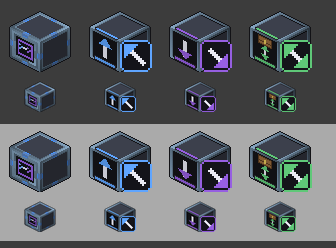
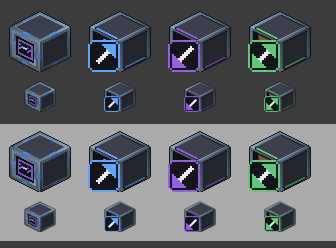
Put the bus badges in the lower left corner
The direction badges of #381 sat in the lower right corner of the bus
icons, where the game draws a stack's count, so the number covered them
in the inventory and the hotbar. They are drawn in the lower left
corner now, mirrored so the arrows keep their meaning; the file names
stay, so the texture mod keeps them over its AE2 cubes.

Refs #381

diff --git a/tools/gen_ae2_sprites.py b/tools/gen_ae2_sprites.py
@@ -1908,16 +1908,17 @@ BADGES = {"me-import-bus": (IMPORT_ACCENT, "in"), "me-export-bus": (EXPORT_ACCEN
 
 
 def bus_badge(accent, way):
-    """issue #381: a bus's direction as a badge in the lower right corner of its 64 px icon, alone (a layer of its own over
-    the block's icon, so the texture mod, which replaces the block's icon, keeps it): a dark rounded square with a
-    diagonal arrow in the bus's colour, into the block (import: towards its middle), out of it (export) or both ways
-    (storage bus). Drawn at 32 px, then doubled like the other HD icons."""
+    """issue #381: a bus's direction as a badge in the lower left corner of its 64 px icon (the game draws a stack's count
+    in the lower right one), alone (a layer of its own over the block's icon, so the texture mod, which replaces the
+    block's icon, keeps it): a dark rounded square with a diagonal arrow in the bus's colour, into the block (import:
+    towards its middle, up and right), out of it (export) or both ways (storage bus). Drawn at 32 px, then doubled like the
+    other HD icons."""
     img = Image.new("RGBA", (TILE, TILE))
     d = ImageDraw.Draw(img)
-    d.rounded_rectangle((16, 16, 31, 31), radius=3, fill=(20, 20, 26, 255), outline=accent + (255,))
-    d.line((20, 20, 27, 27), fill=(235, 235, 245, 255), width=2)            # the shaft, upper left to lower right
-    tip_in = [(18, 18), (24, 18), (18, 24)]                                     # head at the upper left: into the block
-    tip_out = [(29, 29), (23, 29), (29, 23)]                                    # head at the lower right: out of it
+    d.rounded_rectangle((0, 16, 15, 31), radius=3, fill=(20, 20, 26, 255), outline=accent + (255,))
+    d.line((11, 20, 4, 27), fill=(235, 235, 245, 255), width=2)             # the shaft, upper right to lower left
+    tip_in = [(13, 18), (7, 18), (13, 24)]                                      # head at the upper right: into the block
+    tip_out = [(2, 29), (8, 29), (2, 23)]                                       # head at the lower left: out of it
     if way in ("in", "both"):
         d.polygon(tip_in, fill=accent + (255,))
     if way in ("out", "both"):
